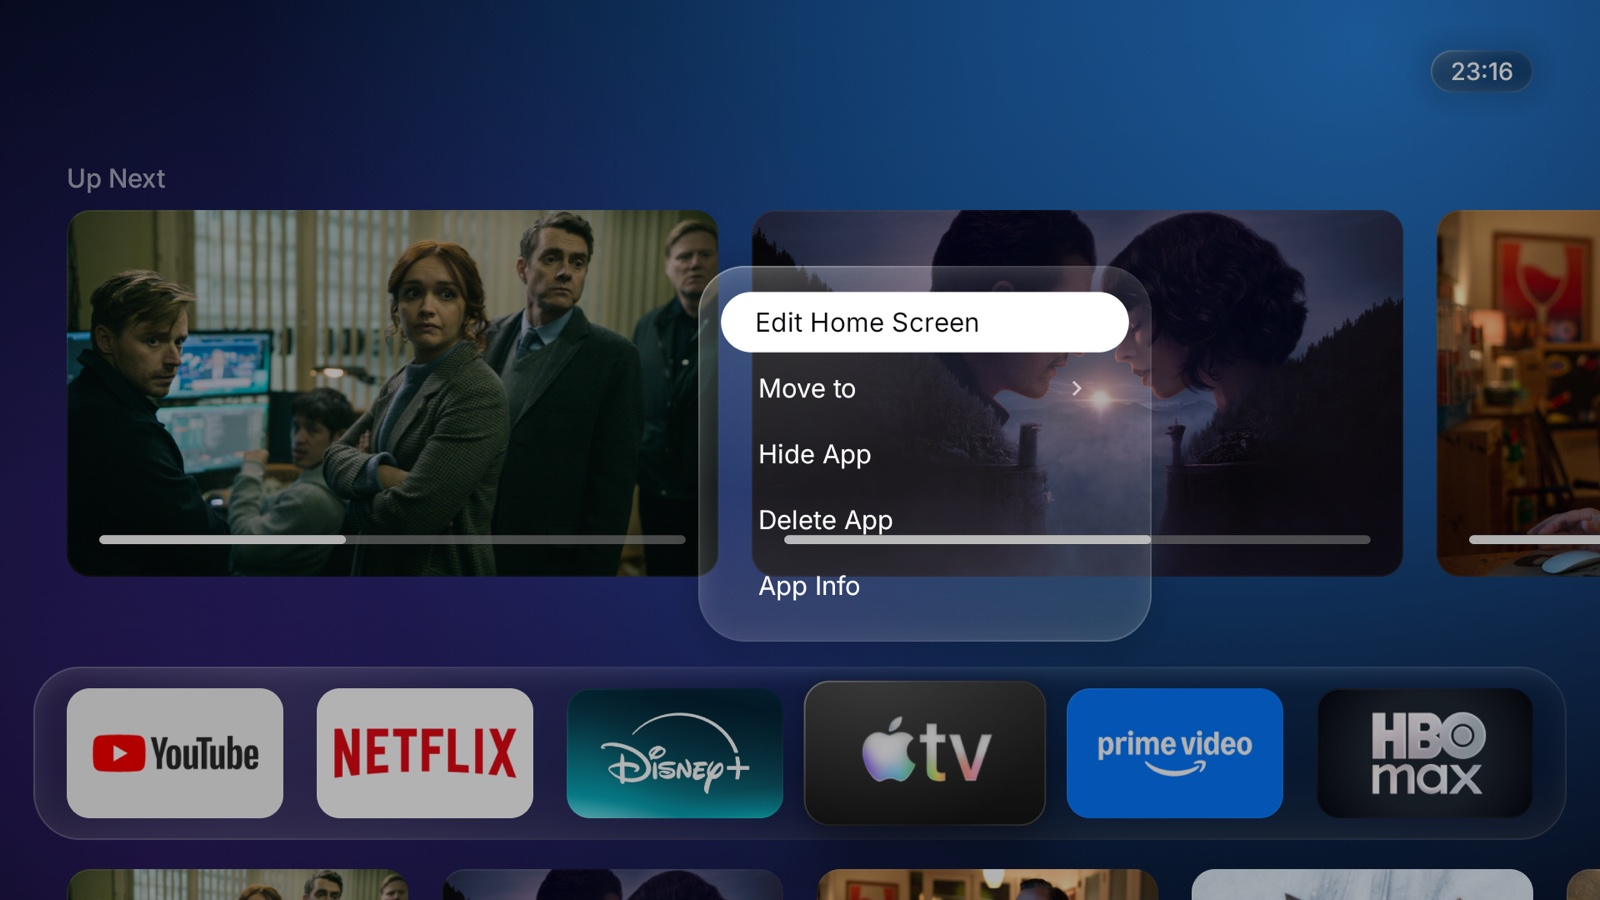
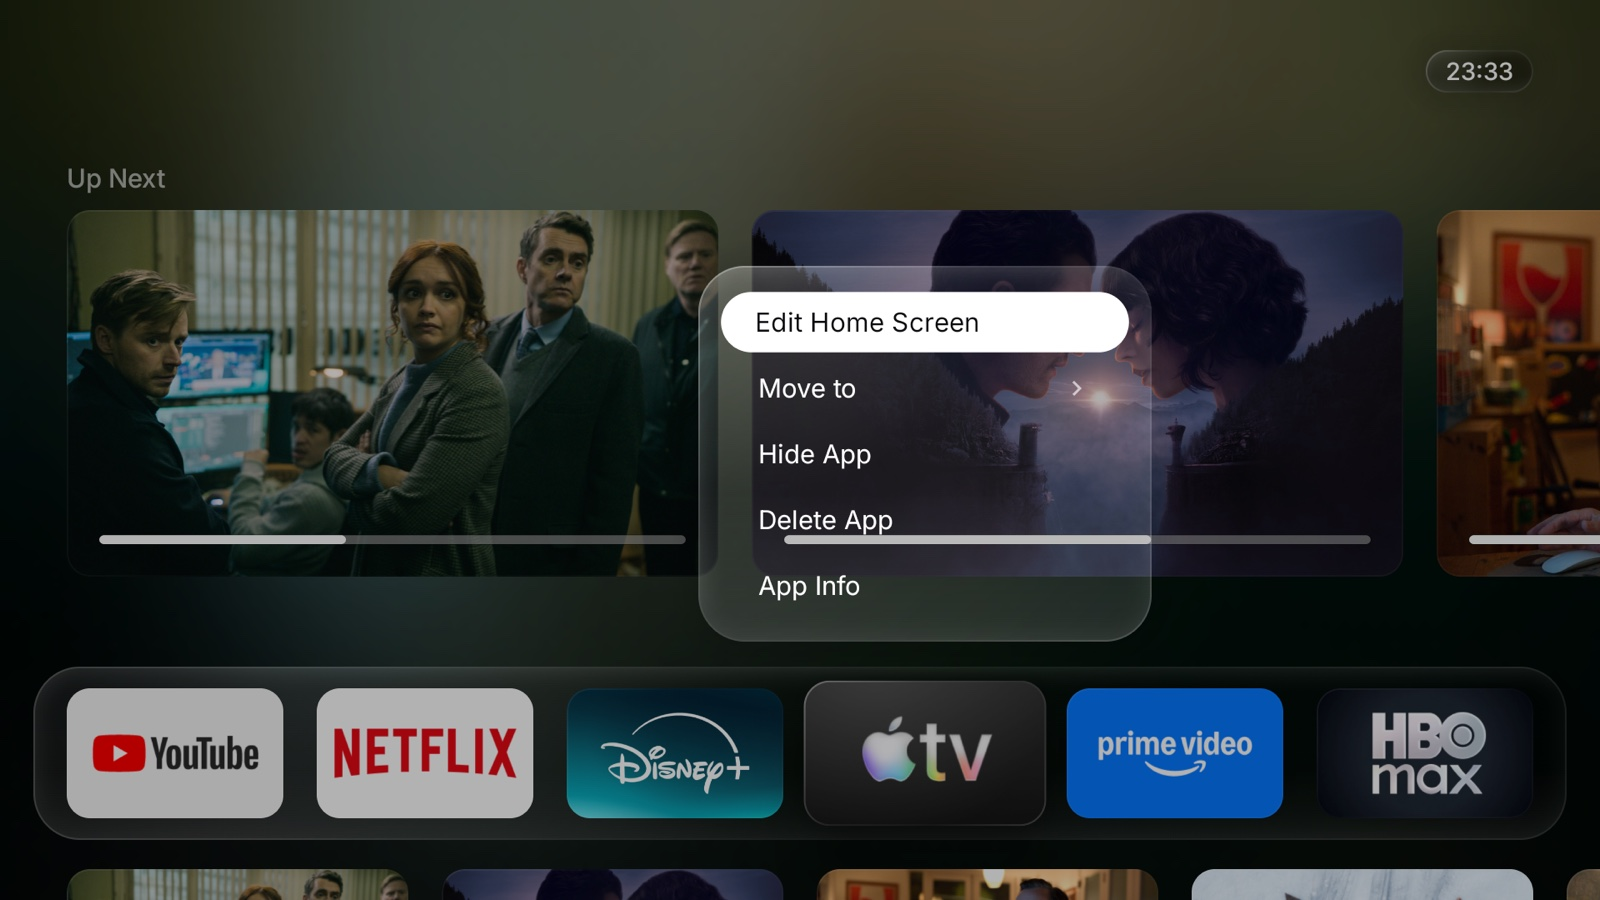
Light the stage with a blur of what's in focus
The stage used to look for one strong color in the focused program's
picture and fall back to the wallpaper when it found none, which, with
dark or muted pictures, was often: hence a lot of the wallpaper's blue.
It now draws a deep blur of the picture itself, richer in color and
brought to one brightness, as Apple's apps tint the screen behind what's
in focus. It always matches the tile, and the color guessing is gone.

The README pictures are retaken to match, showing only Apple TV
programs.

diff --git a/feature/home/src/main/java/app/lumen/feature/home/Hero.kt b/feature/home/src/main/java/app/lumen/feature/home/Hero.kt
@@ -2,9 +2,10 @@ package app.lumen.feature.home
 
 import android.graphics.Bitmap
 import android.graphics.Canvas
+import android.graphics.ColorMatrix
+import android.graphics.ColorMatrixColorFilter
 import android.graphics.LinearGradient
 import android.graphics.Paint
-import android.graphics.RadialGradient
 import android.graphics.Shader
 import androidx.compose.animation.AnimatedContent
 import androidx.compose.animation.core.Animatable
@@ -47,6 +48,7 @@ import app.lumen.core.designsystem.LumenColors
 import app.lumen.core.designsystem.LumenDimens
 import app.lumen.core.designsystem.WallpaperBackground
 import app.lumen.core.designsystem.backgroundFrosted
+import app.lumen.core.designsystem.blurred
 import app.lumen.core.designsystem.clearFrosted
 import app.lumen.core.designsystem.renderGradient
 import app.lumen.core.settings.GradientPreset
@@ -157,9 +159,10 @@ private const val SHELF_ART_RETRY_MS = 10_000L
 private const val SHELF_ART_RECHECK_MS = 20_000L
 
 /**
- * The stage behind everything: the wallpaper lit in the color of the focused program in the app's
- * row ([glow]), or of the app's own tile, plus scrims that keep text legible. While browsing [below]
- * the Top Shelf it melts into a frosted copy of itself, as tvOS's does.
+ * The stage behind everything: a deep blur of the focused program in the app's row ([glow]), or of
+ * the app's own tile, as Apple's apps tint the screen behind what's in focus, plus scrims that keep
+ * text legible. With neither, the wallpaper. While browsing [below] the Top Shelf it melts into a
+ * frosted copy of itself, as tvOS's does.
  *
  * All of it is baked into one small bitmap per app, off the main thread. Every extra full-screen
  * layer is another pass for the Chromecast's GPU: drawn separately, these held it to 20 fps.
@@ -236,14 +239,17 @@ internal fun Backdrop(
     }
 }
 
-/** Opaque over [preset]; transparent over a photo wallpaper when there's no preset. Blocking. */
-private fun bakeBackdrop(preset: GradientPreset?, art: Bitmap?): Bitmap {
-    val bitmap = preset?.let(::renderGradient)
+/**
+ * Opaque over a blur of [source] or over [preset]; transparent over a photo wallpaper when there's
+ * neither. Blocking.
+ */
+private fun bakeBackdrop(preset: GradientPreset?, source: Bitmap?): Bitmap {
+    val bitmap = source?.let(::stageBlur)
+        ?: preset?.let(::renderGradient)
         ?: Bitmap.createBitmap(PHOTO_OVERLAY_WIDTH, PHOTO_OVERLAY_HEIGHT, Bitmap.Config.ARGB_8888)
     val canvas = Canvas(bitmap)
     val width = bitmap.width.toFloat()
     val height = bitmap.height.toFloat()
-    if (preset != null && art != null) drawAppLight(canvas, art, width, height)
     // A darkening toward the bottom and the left, where the text and tiles sit.
     val scrim = Paint().apply { isDither = true }
     scrim.shader = LinearGradient(
@@ -260,81 +266,39 @@ private fun bakeBackdrop(preset: GradientPreset?, art: Bitmap?): Bitmap {
         Shader.TileMode.CLAMP,
     )
     canvas.drawRect(0f, 0f, width, height, scrim)
-    if (preset != null) bitmap.setHasAlpha(false)
+    if (source != null || preset != null) bitmap.setHasAlpha(false)
     return bitmap
 }
 
 /**
- * Fills the stage with the color of what's focused: Netflix goes red, Prime Video blue, or the hue of
- * the program in focus in the app's row.
- * Black and white brands have no color to offer and leave the wallpaper showing.
+ * [source] blurred until no shape is left, only its colors, then evened out: richer in color, and
+ * brought to one brightness whether the picture was dark or bright, so white text and tiles read on
+ * it and a dim picture doesn't leave the screen black. Small, as the screen draws it stretched and
+ * smooth. Blocking.
  */
-private fun drawAppLight(canvas: Canvas, art: Bitmap, width: Float, height: Float) {
-    val (dominant, presence) = dominantHue(art) ?: return
-    // Yellow turns to mustard across a whole screen, so it leans amber.
-    val hue = if (dominant in YELLOWS) AMBER_HUE else dominant
-    fun color(hue: Float, value: Float, alpha: Float): Int {
-        val hsv = floatArrayOf((hue + 360f) % 360f, STAGE_SATURATION, value)
-        hsv[2] = value * (STAGE_MAX_LUMINANCE / luminance(hsv[0], hsv[1])).coerceAtMost(1f)
-        return android.graphics.Color.HSVToColor((alpha * presence * 255).toInt(), hsv)
+private fun stageBlur(source: Bitmap): Bitmap {
+    val soft = Bitmap.createScaledBitmap(source, STAGE_BLUR_WIDTH, STAGE_BLUR_HEIGHT, true).blurred(STAGE_BLUR_RADIUS)
+    val pixels = IntArray(STAGE_BLUR_WIDTH * STAGE_BLUR_HEIGHT).also { soft.getPixels(it, 0, STAGE_BLUR_WIDTH, 0, 0, STAGE_BLUR_WIDTH, STAGE_BLUR_HEIGHT) }
+    val luminance = pixels.sumOf { (0.2126 * (it shr 16 and 0xFF) + 0.7152 * (it shr 8 and 0xFF) + 0.0722 * (it and 0xFF)) / 255.0 } / pixels.size
+    val gain = (STAGE_LUMINANCE / luminance.toFloat().coerceAtLeast(0.01f)).coerceIn(STAGE_MIN_GAIN, STAGE_MAX_GAIN)
+    val matrix = ColorMatrix().apply {
+        setSaturation(STAGE_SATURATION)
+        postConcat(ColorMatrix().apply { setScale(gain, gain, gain, 1f) })
     }
-
-    val paint = Paint().apply { isDither = true }
-    paint.color = color(hue, 0.12f, 1f)
-    canvas.drawRect(0f, 0f, width, height, paint)
-    fun light(color: Int, x: Float, y: Float, radius: Float) {
-        paint.shader = RadialGradient(x, y, radius, color, color and 0xFFFFFF, Shader.TileMode.CLAMP)
-        canvas.drawRect(0f, 0f, width, height, paint)
-    }
-    light(color(hue, 0.85f, 0.95f), width * 0.8f, height * 0.1f, width * 0.85f)
-    light(color(hue - 24f, 0.55f, 0.8f), width * 0.08f, height * 0.85f, width * 0.6f)
+    val out = Bitmap.createBitmap(STAGE_BLUR_WIDTH, STAGE_BLUR_HEIGHT, Bitmap.Config.ARGB_8888)
+    Canvas(out).drawBitmap(soft, 0f, 0f, Paint().apply { colorFilter = ColorMatrixColorFilter(matrix) })
+    return out
 }
 
-/** How bright a hue looks at full value, 0..1. At the same value, yellow looks far brighter than blue. */
-private fun luminance(hue: Float, saturation: Float): Float {
-    val color = android.graphics.Color.HSVToColor(floatArrayOf(hue, saturation, 1f))
-    return (0.2126f * android.graphics.Color.red(color) + 0.7152f * android.graphics.Color.green(color) + 0.0722f * android.graphics.Color.blue(color)) / 255f
-}
-
-/**
- * The art's strongest hue, and how much of the art carries it (0..1). Reading the hue alone keeps
- * a red logo on a white banner red, where averaging its pixels would wash it out. Null when the
- * art has no real color.
- */
-private fun dominantHue(art: Bitmap): Pair<Float, Float>? {
-    val small = Bitmap.createScaledBitmap(art, HUE_SAMPLE_WIDTH, HUE_SAMPLE_HEIGHT, true)
-    val weights = FloatArray(HUE_BUCKETS)
-    val hsv = FloatArray(3)
-    for (y in 0 until HUE_SAMPLE_HEIGHT) {
-        for (x in 0 until HUE_SAMPLE_WIDTH) {
-            android.graphics.Color.colorToHSV(small.getPixel(x, y), hsv)
-            if (hsv[1] > 0.4f && hsv[2] > 0.3f) {
-                weights[(hsv[0] / 360f * HUE_BUCKETS).toInt() % HUE_BUCKETS] += hsv[1] * hsv[2]
-            }
-        }
-    }
-    val peak = weights.indices.maxBy { weights[it] }
-    val neighbors = (-2..2).map { offset -> offset to weights[(peak + offset).mod(HUE_BUCKETS)] }
-    val weight = neighbors.sumOf { it.second.toDouble() }.toFloat()
-    if (weight == 0f) return null
-    val center = peak + neighbors.sumOf { (offset, w) -> (offset * w).toDouble() }.toFloat() / weight
-    val share = weight / (HUE_SAMPLE_WIDTH * HUE_SAMPLE_HEIGHT)
-    val presence = ((share - HUE_MIN_SHARE) * HUE_PRESENCE_GAIN).coerceIn(0f, 1f)
-    if (presence == 0f) return null
-    return (center + 0.5f) / HUE_BUCKETS * 360f to presence
-}
-
-private const val STAGE_SATURATION = 0.88f
-/** Keeps every color about as bright as a saturated blue, so white text reads over all of them. */
-private const val STAGE_MAX_LUMINANCE = 0.5f
-private val YELLOWS = 40f..75f
-private const val AMBER_HUE = 34f
-private const val HUE_SAMPLE_WIDTH = 32
-private const val HUE_SAMPLE_HEIGHT = 18
-private const val HUE_BUCKETS = 36
-/** Below this share of colored art (a rainbow Apple logo on black, say), the wallpaper stays. */
-private const val HUE_MIN_SHARE = 0.03f
-private const val HUE_PRESENCE_GAIN = 12f
+private const val STAGE_BLUR_WIDTH = 160
+private const val STAGE_BLUR_HEIGHT = 90
+private const val STAGE_BLUR_RADIUS = 9
+private const val STAGE_SATURATION = 1.35f
+/** About as bright as a deep blue, so white text reads over any of them. */
+private const val STAGE_LUMINANCE = 0.2f
+/** A near-black picture stays dark rather than being lifted into grey noise, and a bright one is held well down. */
+private const val STAGE_MIN_GAIN = 0.35f
+private const val STAGE_MAX_GAIN = 1.8f
 private const val PHOTO_OVERLAY_WIDTH = 240
 private const val PHOTO_OVERLAY_HEIGHT = 135
 /** Short, as the GPU draws two full-screen images for as long as it runs. */

diff --git a/README.md b/README.md
@@ -8,7 +8,7 @@ Atrium replaces the Google TV home screen with one modelled on Apple TV's, inclu
 
 ## The home screen
 
-Move along the top row and each app shows its own row above it, as Apple TV's Top Shelf does: what you're in the middle of in that app, labelled **Up Next**, then what it recommends. The screen takes on the color of the program in focus, and the tops of the row below peek in at the bottom edge.
+Move along the top row and each app shows its own row above it, as Apple TV's Top Shelf does: what you're in the middle of in that app, labelled **Up Next**, then what it recommends. Behind it, the screen takes on a soft blur of the program in focus, and the tops of the row below peek in at the bottom edge.
 
 Press **Up** to move into the row. The program in focus shows its title and where you are, or how long it is, and **Select** plays it.
 
@@ -28,7 +28,7 @@ Don't want something there? Hold **Select** on it to remove it. It comes back on
 
 ## All your apps
 
-Everything else sits in a grid below, using Apple's six-column layout, over a soft, dark wash of the stage's colors. Hold **Select** on an app to rearrange it, move it to the top row, put it in a folder, hide it or delete it.
+Everything else sits in a grid below, using Apple's six-column layout, over a soft, dark wash of the same colors. Hold **Select** on an app to rearrange it, move it to the top row, put it in a folder, hide it or delete it.
 
 ![The grid of apps, with one selected and its name underneath](docs/images/app-grid.jpg)
 
